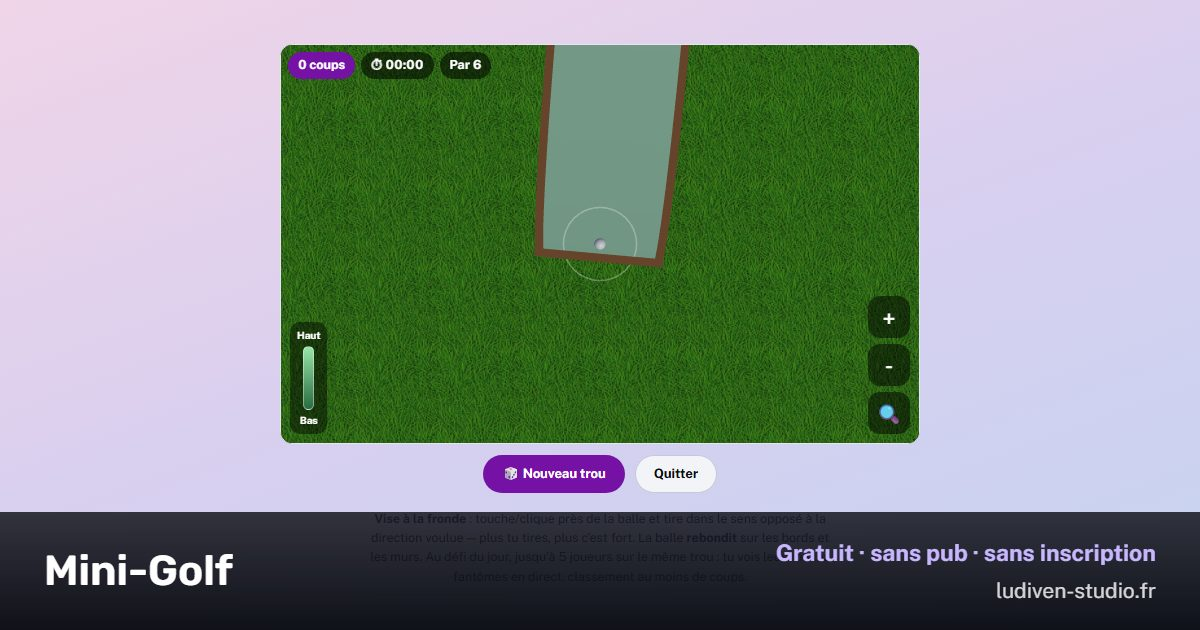
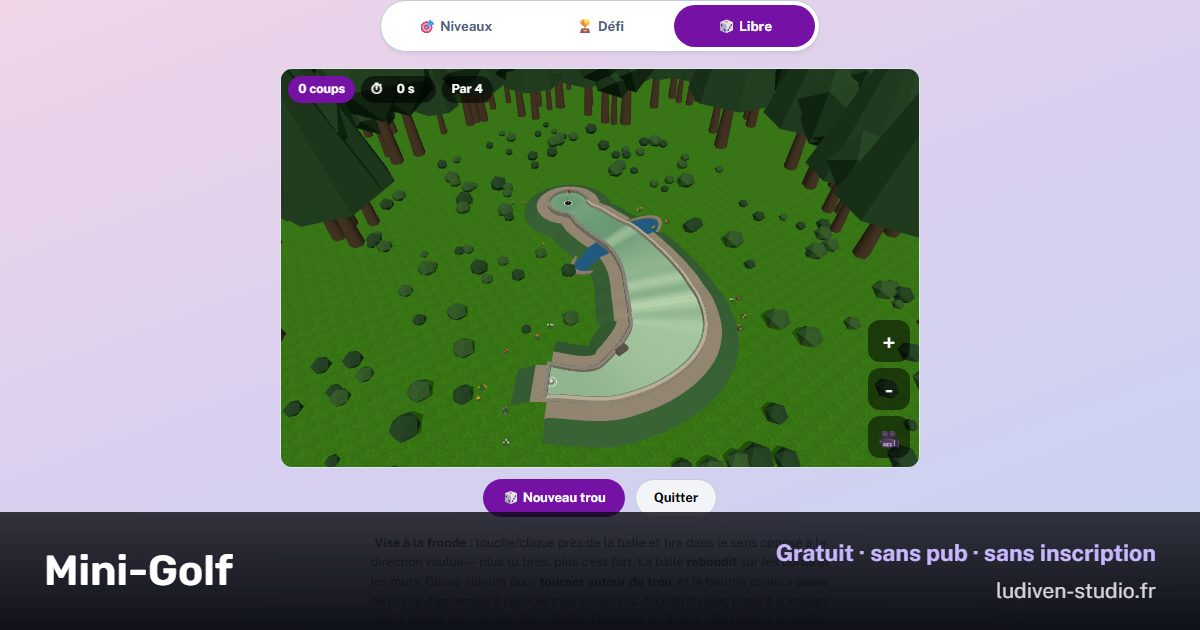
[CHANGED] Golf: tighter framing, camera tutorial, fullscreen fits on phones
The overview camera looked straight down the hole, which left most of a
landscape canvas empty on long narrow courses. bestAz() now scans the
azimuth around the tee-cup heading and keeps the tightest fit, ties going
to the smallest turn. The top view gets its own optimum. Refreshed on
resize, and shared with the /labo proto so the two cannot drift.

Fullscreen boardwrap had flex:1 with no min-height:0, so the canvas
intrinsic height was a floor flex could not shrink past: on a 844x390
phone the board was 507px tall and the action buttons sat off-screen.
Drift had the same rule and the same overflow.

Also regenerates the golf thumbnails, which still showed the old 2D
renderer. generate-og.mjs needed a golf drive: levels is the landing mode
and resumes asynchronously, so it beat the generic start.

Changed region(s): [[0.2158, 0.0, 0.7708, 0.8444]]

diff --git a/src/games/golf/GolfGame.tsx b/src/games/golf/GolfGame.tsx
@@ -16,6 +16,7 @@ import {
 	CORNERS,
 	CUP_D,
 	SINK_MS,
+	bestAz,
 	buildHole3D,
 	disposeHole,
 	fitDist,
@@ -67,6 +68,7 @@ const randomSeed = () => Math.floor(Math.random() * 2 ** 31);
 const RELIEF = 0.1; // height scale along the hole — enough to read, flat enough to putt
 const BANK = 5; // cross slope in the turns; the engine already curves the ball there
 const PITCH = 45; // camera tilt (deg) for the framed views
+const TOP_PITCH = 89.5;
 const SHOULDER_PITCH = 30;
 const SHOULDER_DIST = 26;
 // Drag length that means full power, as a share of the canvas height. Read in pixels,
@@ -174,7 +176,9 @@ export default function GolfGame({ gameId }: { gameId: string }) {
 	const zoomRef = useRef(1);
 	const camModeRef = useRef<CamMode>('fit');
 	const azRef = useRef(0); // camera azimuth around the target
-	const fitRef = useRef({ x: 0, y: 0, z: 0, hx: 40, hz: 40, az: 0 }); // bounding box of the hole
+	// Bounding box of the hole. `base` is the tee→cup heading; `az`/`azTop` are the framings
+	// derived from it, which depend on the canvas shape and so are refreshed on every resize.
+	const fitRef = useRef({ x: 0, y: 0, z: 0, hx: 40, hz: 40, base: 0, az: 0, azTop: 0 });
 	const orbitRef = useRef<{ x: number; az: number } | null>(null);
 	const sinkRef = useRef<number | null>(null); // timestamp of the drop, null while playing
 	const sinkTimerRef = useRef(0);
@@ -292,6 +296,9 @@ export default function GolfGame({ gameId }: { gameId: string }) {
 		g.renderer.setSize(w, h, false);
 		g.camera.aspect = w / Math.max(1, h);
 		g.camera.updateProjectionMatrix();
+		const f = fitRef.current;
+		f.az = bestAz(g.camera, f.hx, f.hz, f.base, (PITCH * Math.PI) / 180);
+		f.azTop = bestAz(g.camera, f.hx, f.hz, f.base, (TOP_PITCH * Math.PI) / 180);
 	}, []);
 
 	const removeGhost = useCallback((id: string) => {
@@ -444,8 +451,8 @@ export default function GolfGame({ gameId }: { gameId: string }) {
 			// Aim ahead of the ball, not at it, so the fairway fills the frame.
 			g.camera.lookAt(pose.x + Math.cos(azRef.current) * 10, by + 1.2, pose.z + Math.sin(azRef.current) * 10);
 		} else {
-			const pitch = ((mode === 'top' ? 89.5 : PITCH) * Math.PI) / 180;
-			const az = mode === 'top' ? f.az : azRef.current;
+			const pitch = ((mode === 'top' ? TOP_PITCH : PITCH) * Math.PI) / 180;
+			const az = mode === 'top' ? f.azTop : azRef.current;
 			const place = (d: number, tx: number, ty: number, tz: number) => {
 				g.camera.position.set(
 					tx - Math.cos(az) * Math.cos(pitch) * d,
@@ -755,9 +762,9 @@ export default function GolfGame({ gameId }: { gameId: string }) {
 				fitRef.current = {
 					x: fx, y: surfaceY(hole, fx, fz, RELIEF, BANK), z: fz,
 					hx: (maxX - minX) / 2 + 3, hz: (maxZ - minZ) / 2 + 3,
-					az: Math.atan2(hole.cup.z - hole.start.z, hole.cup.x - hole.start.x),
+					base: Math.atan2(hole.cup.z - hole.start.z, hole.cup.x - hole.start.x),
+					az: 0, azTop: 0, // resize() below picks the framing for this canvas
 				};
-				azRef.current = fitRef.current.az;
 				g.ground.position.set(fx, groundYOf(hole, RELIEF), fz);
 
 				// Wrap the shadow frustum around this hole only, so its texels stay small.
@@ -1118,10 +1125,17 @@ const CSS = `
 }
 /* Site global fullscreen → the course fills the screen; controls stay overlaid. */
 .game-page.gf-full .gf-root { max-width: none; width: 100%; height: 100%; display: flex; flex-direction: column; }
-.game-page.gf-full .gf-boardwrap { flex: 1; aspect-ratio: auto; }
+/* min-height:0 or the canvas' intrinsic height becomes a floor flex:1 cannot shrink past,
+   and the board overflows the screen in landscape. */
+.game-page.gf-full .gf-boardwrap { flex: 1; min-height: 0; aspect-ratio: auto; }
 .game-page.gf-full .gf-canvas { border-radius: 0; border: none; }
 .game-page.gf-full .gf-help { display: none; }
 .game-page.gf-full .gf-board { top: 54px; }
+/* Landscape phone: every row above the board costs a tenth of the screen. */
+@media (max-height: 520px) {
+  .game-page.gf-full .gf-leveltag { display: none; }
+  .game-page.gf-full .gf-actions { margin-top: 0.35rem; }
+}
 .gf-labels { position: absolute; inset: 0; pointer-events: none; overflow: hidden; }
 .gf-label { position: absolute; transform: translate(-50%, -120%); white-space: nowrap; font-size: 11px; font-weight: 700; color: #fff; background: rgba(0,0,0,0.55); padding: 1px 6px; border-radius: 999px; }
 .gf-celebrate { position: absolute; inset: 0; pointer-events: none; }

diff --git a/src/components/GolfProto3D.tsx b/src/components/GolfProto3D.tsx
@@ -16,6 +16,7 @@ import {
 	CORNERS,
 	CUP_D,
 	SINK_MS,
+	bestAz,
 	buildHole3D,
 	disposeHole,
 	fitDist,
@@ -136,7 +137,7 @@ export default function GolfProto3D() {
 	// `px`/`pz` give the aim direction on the ground; `pull` is the power, read off the screen.
 	const aimRef = useRef({ active: false, px: 0, pz: 0, pull: 0 });
 	const azRef = useRef(0);
-	const fitRef = useRef({ x: 0, y: 0, z: 0, hx: 40, hz: 40, az: 0 }); // bounding box of the hole
+	const fitRef = useRef({ x: 0, y: 0, z: 0, hx: 40, hz: 40, base: 0 }); // bounding box of the hole
 	const orbitRef = useRef<{ x: number; az: number } | null>(null);
 	const rayRef = useRef(new THREE.Raycaster());
 	const occRef = useRef({ hit: 0, deco: 0, total: 0 });
@@ -270,7 +271,7 @@ export default function GolfProto3D() {
 		fitRef.current = {
 			x: fx, y: surfaceY(hole, fx, fz, cam.relief, cam.bank), z: fz,
 			hx: (maxX - minX) / 2 + 3, hz: (maxZ - minZ) / 2 + 3,
-			az: Math.atan2(hole.cup.z - hole.start.z, hole.cup.x - hole.start.x),
+			base: Math.atan2(hole.cup.z - hole.start.z, hole.cup.x - hole.start.x),
 		};
 		g.ground.position.x = fx; g.ground.position.z = fz;
 
@@ -283,7 +284,8 @@ export default function GolfProto3D() {
 		g.sun.target.position.set(fx, 0, fz);
 		g.sun.target.updateMatrixWorld();
 
-		azRef.current = fitRef.current.az;
+		azRef.current = bestAz(g.camera, fitRef.current.hx, fitRef.current.hz, fitRef.current.base,
+			(camRef.current.pitch * Math.PI) / 180);
 		orbitRef.current = null;
 	}, [seed, diff, shape, cam.relief, cam.bank]);
 
@@ -453,7 +455,8 @@ export default function GolfProto3D() {
 				g.camera.lookAt(b.x + Math.cos(azRef.current) * 10, by + 1.2, b.z + Math.sin(azRef.current) * 10);
 			} else {
 				const pitch = ((c.mode === 'top' ? 89.5 : c.pitch) * Math.PI) / 180;
-				const az = c.mode === 'top' ? f.az : azRef.current;
+				// The pitch is a live slider here, so the top view re-frames every frame.
+				const az = c.mode === 'top' ? bestAz(g.camera, f.hx, f.hz, f.base, pitch) : azRef.current;
 				const place = (d: number, tx: number, ty: number, tz: number) => {
 					g.camera.position.set(
 						tx - Math.cos(az) * Math.cos(pitch) * d,

diff --git a/src/data/tutorials.ts b/src/data/tutorials.ts
@@ -223,7 +223,8 @@ export const TUTORIALS: Record<string, TutorialStep[]> = {
 	golf: [
 		{ emoji: '🏌', title: 'Le but', body: 'Rentre la balle dans le trou (le drapeau) en un minimum de coups. Le parcours est généré à chaque partie.' },
 		{ emoji: '🎯', title: 'Viser à la fronde', body: 'Touche/clique près de la balle et tire dans le sens OPPOSÉ à la direction voulue : un élastique part de la balle. Plus tu tires loin, plus le coup est puissant. Relâche pour frapper.' },
-		{ emoji: '↩', title: 'Rebonds & fantômes', body: 'La balle rebondit sur les bords et les murs : sers-t\'en pour contourner les obstacles. Au défi du jour, même trou pour tous, 10 essais, et tu vois les balles fantômes des autres joueurs en direct (classement au moins de coups).' },
+		{ emoji: '🎥', title: 'Les caméras', body: 'Le bouton caméra fait le tour de trois vues : le trou en entier, l\'épaule (juste derrière la balle) et le dessus. Glisse ailleurs que sur la balle pour tourner autour du trou, et les boutons + / − rapprochent la vue. La puissance du coup se mesure à l\'écran : le même geste tape aussi fort dans toutes les vues.' },
+		{ emoji: '↩', title: 'Rebonds & fantômes', body: 'La balle rebondit sur les bords et les murs : sers-t\'en pour contourner les obstacles. Le terrain a du relief et les virages sont relevés — la balle suit la pente. Au défi du jour, même trou pour tous, 10 essais, et tu vois les balles fantômes des autres joueurs en direct (classement au moins de coups).' },
 	],
 	angry: [
 		{ emoji: '🐔', title: 'Le but', body: 'Fais tomber tous les renards en lançant la cocotte, avec le moins de cocottes possible.' },

diff --git a/src/games/golf/render3d.ts b/src/games/golf/render3d.ts
@@ -113,6 +113,23 @@ export function fitDist(cam: THREE.PerspectiveCamera, hx: number, hz: number, pi
 	);
 }
 
+/**
+ * Azimuth that frames the course tightest, searched around `base`. Looking straight down a
+ * long hole leaves the whole width of the canvas empty; turning ~50° reads the same way
+ * and brings the camera a fifth closer. Ties keep the smallest turn.
+ */
+export function bestAz(cam: THREE.PerspectiveCamera, hx: number, hz: number, base: number, pitch: number): number {
+	let best = base, bestD = Infinity;
+	for (let k = 0; k <= 12; k++) {
+		for (const s of k === 0 ? [0] : [-1, 1]) {
+			const az = base + (s * k * Math.PI) / 36; // ±60°, 5° apart
+			const d = fitDist(cam, hx, hz, pitch, az);
+			if (d < bestD - 1e-6) { bestD = d; best = az; }
+		}
+	}
+	return best;
+}
+
 /** Free every geometry and material a built hole owns. */
 export function disposeHole(grp: THREE.Group) {
 	const mats = new Set<THREE.Material>();

diff --git a/src/games/drift/DriftGame.tsx b/src/games/drift/DriftGame.tsx
@@ -1280,7 +1280,9 @@ const CSS = `
 }
 /* Site global fullscreen → the track fills the screen; controls stay overlaid. */
 .game-page.gf-full .dr-root { max-width: none; width: 100%; height: 100%; display: flex; flex-direction: column; }
-.game-page.gf-full .dr-boardwrap { flex: 1; aspect-ratio: auto; }
+/* min-height:0 or the canvas' intrinsic height becomes a floor flex:1 cannot shrink past,
+   and the board overflows the screen in landscape. */
+.game-page.gf-full .dr-boardwrap { flex: 1; min-height: 0; aspect-ratio: auto; }
 .game-page.gf-full .dr-canvas { border-radius: 0; border: none; }
 .game-page.gf-full .dr-help { display: none; }
 .game-page.gf-full .dr-leaderboard { top: 54px; }
